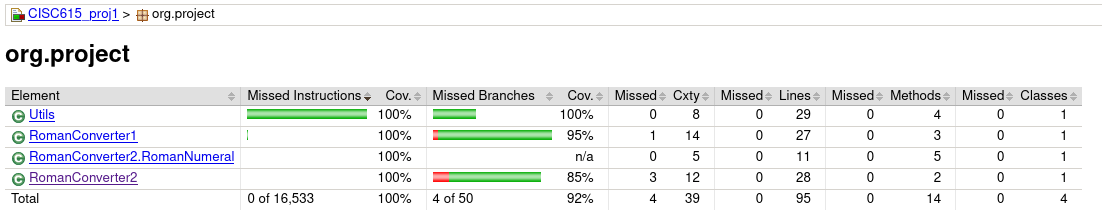
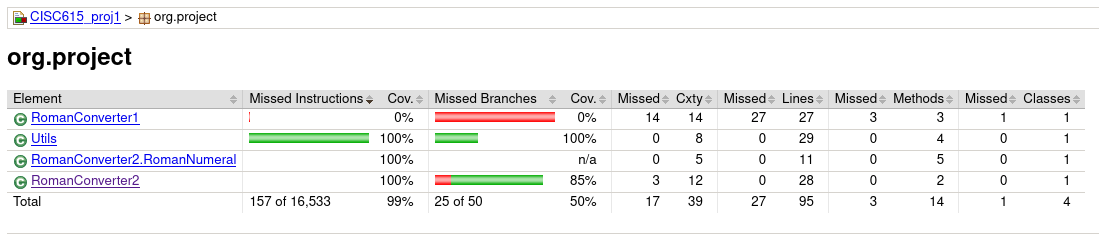
update img

diff --git a/CODECOV.md b/CODECOV.md
@@ -10,3 +10,14 @@
 ### Test Suite: TestInterfaceBasedApproach2.java (corresponds to RomanConverter2)
 ![alt text](https://github.com/nmancus1/CISC615_proj1/blob/master/img/TestInterfaceBasedApproach2.png?raw=true)
 
+### Summary
+| Test Suite                           | Java File            | Line Coverage | Branch Coverage |   |
+|--------------------------------------|----------------------|---------------|-----------------|---|
+| TestFunctionalityBasedApproach1.java | RomanConverter1.java | 100%          | 95%             |   |
+| TestFunctionalityBasedApproach2.java | RomanConverter2.java | 100%          | 85%             |   |
+| TestInterfaceBasedApproach1.java     | RomanConverter1.java | 100%          | 100%            |   |
+| TestInterfaceBasedApproach2.java     | RomanConverter2.java | 100%          | 90%             |   |
+
+### Analysis
+
+The coverage of each test suite on each implementation differs only in branch coverage. 
